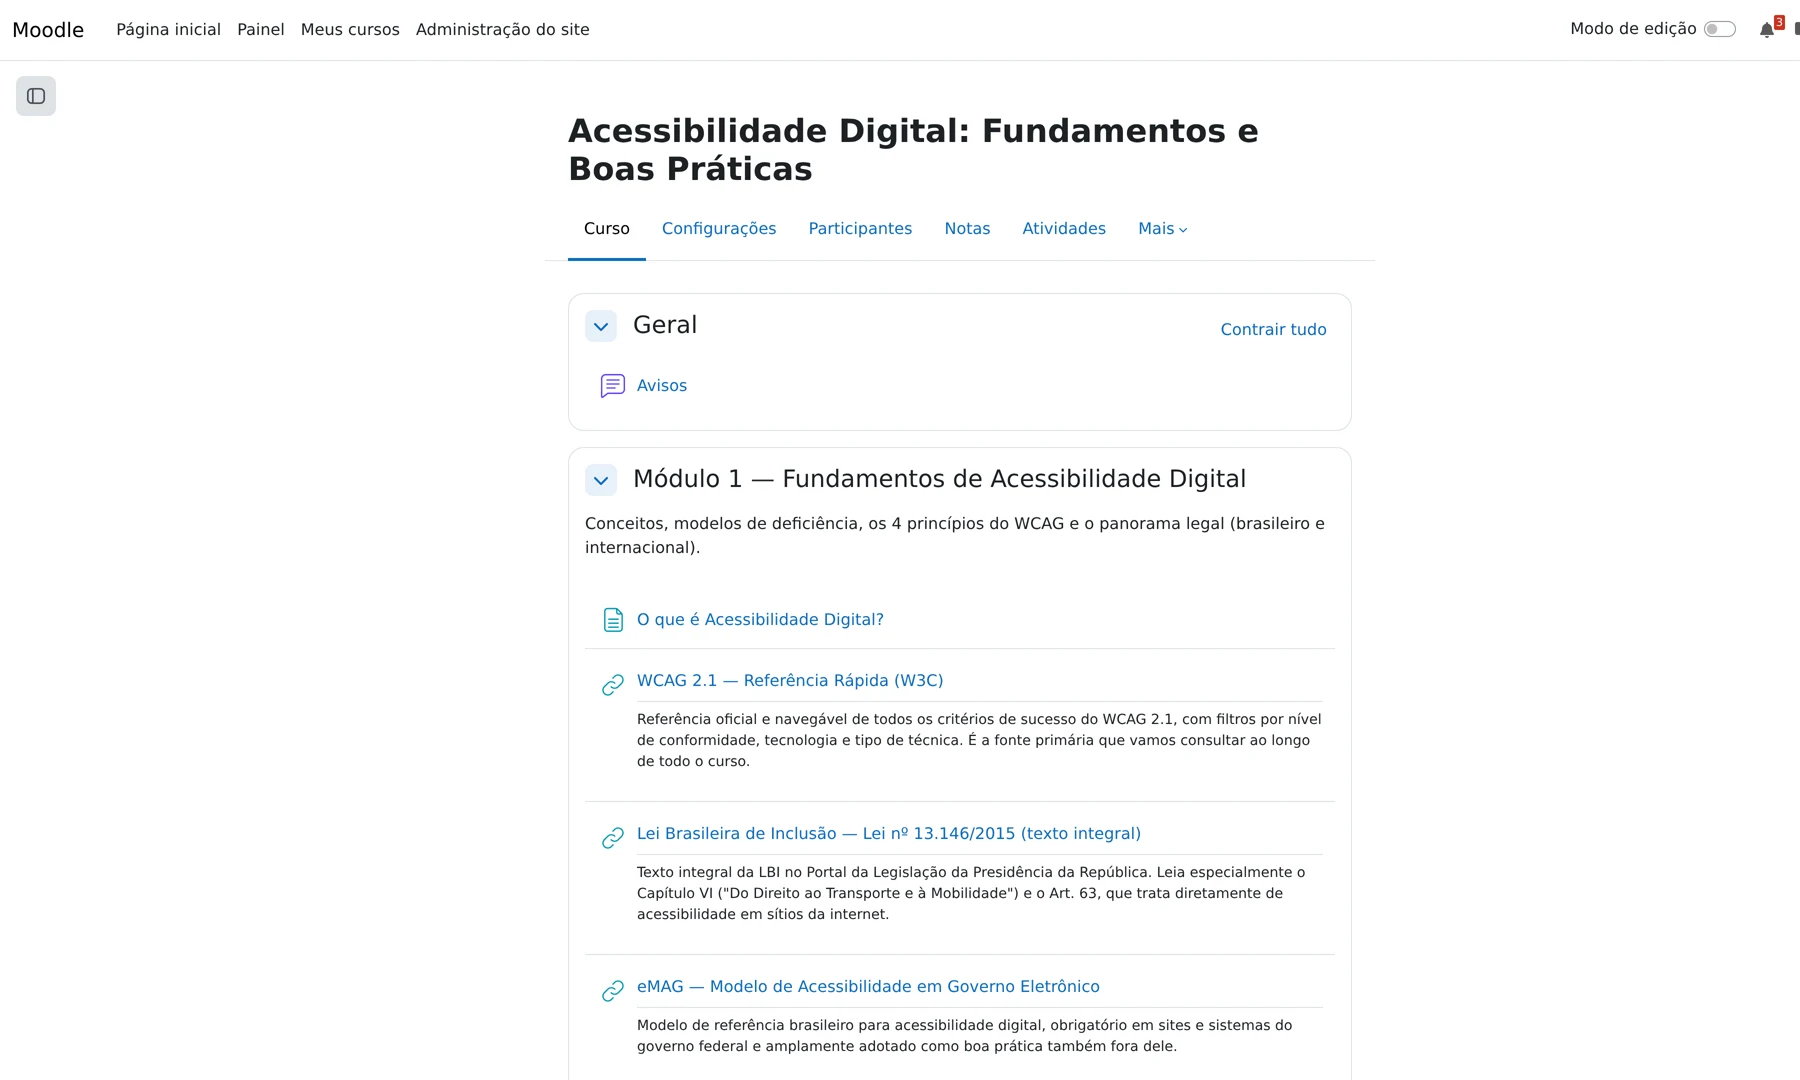
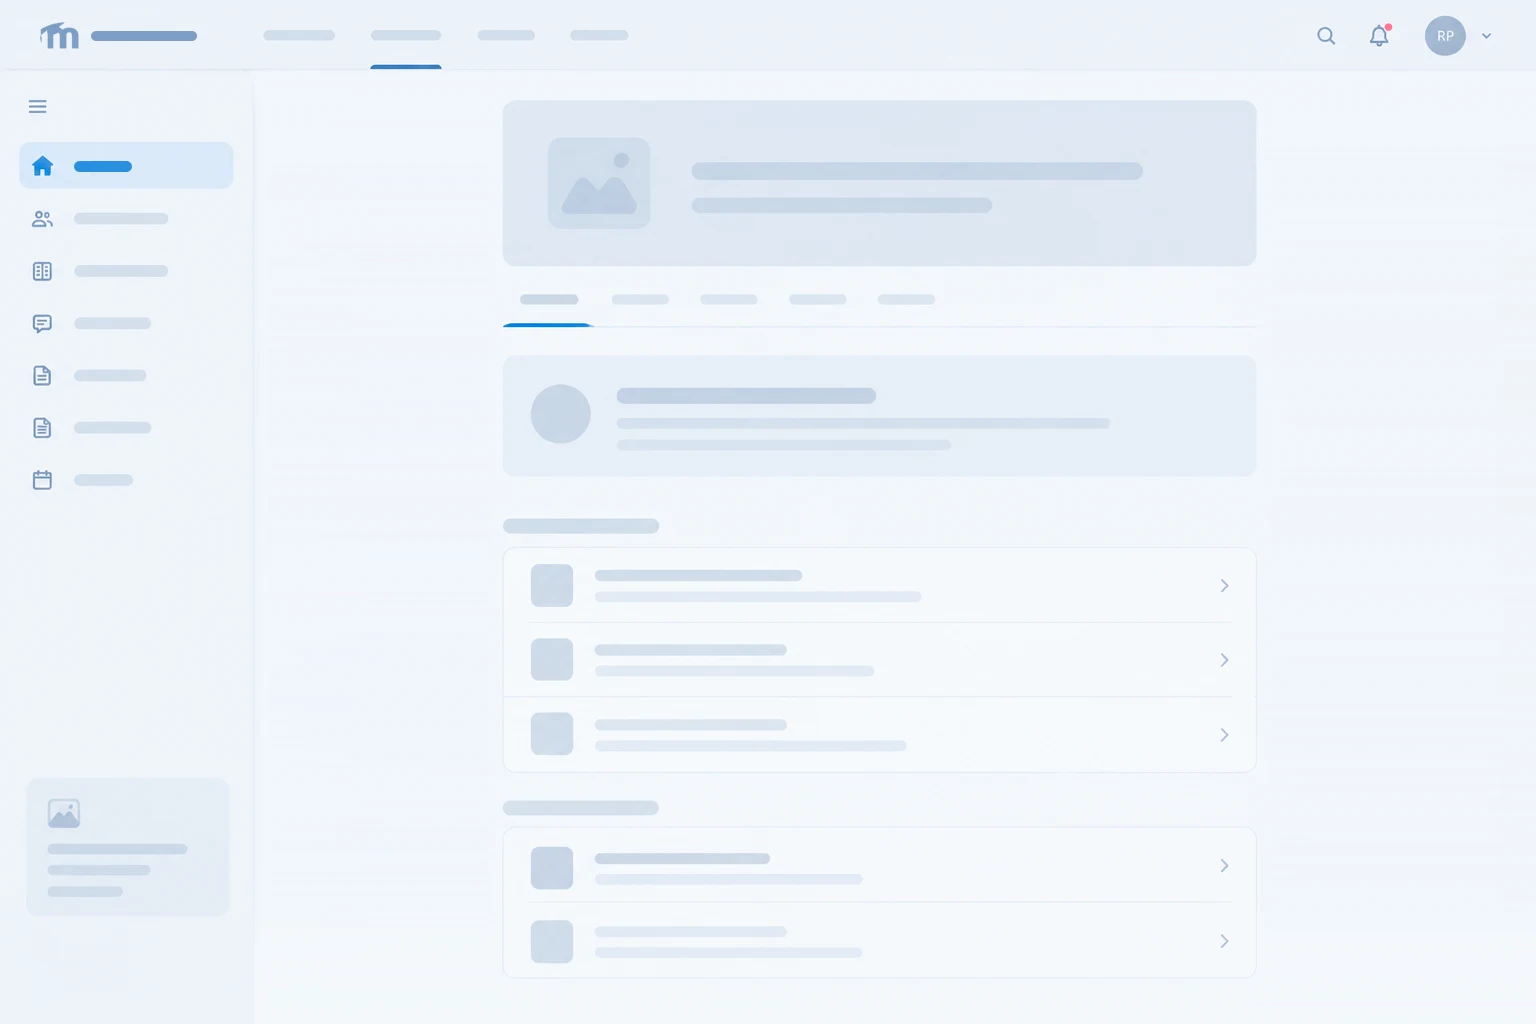
fix(site): troca as imagens da composição do hero pelas fornecidas
hero2-page.webp agora é o wireframe genérico (hero-mdl.png) - avisei o
usuário que essa camada deixa de ser uma captura real do Moodle antes
de aplicar, e ele confirmou que queria assim mesmo. hero2-panel.webp
continua real (hero-plugin.png, mesmo painel real de sempre, só um
recorte/proporção diferente, 422x1033). Atributos width/height
atualizados para as novas dimensões.

diff --git a/index.html b/index.html
@@ -435,10 +435,10 @@
     <div class="hero__visual">
       <div class="browser hero__shot-page">
         <div class="browser__bar" aria-hidden="true"><i></i><i></i><i></i><span class="browser__url">moodle.suainstituicao.edu.br/course/view.php?id=7</span></div>
-        <img src="img/hero2-page.webp" width="1800" height="1080" alt="" aria-hidden="true" loading="eager">
+        <img src="img/hero2-page.webp" width="1536" height="1024" alt="" aria-hidden="true" loading="eager">
       </div>
       <div class="browser hero__shot-panel">
-        <img class="l10n" src="img/hero2-panel.webp" width="640" height="954" alt="Painel de acessibilidade do A11Y for Moodle aberto sobre uma página real de curso no Moodle, mostrando a busca, os 9 perfis em cartões coloridos e o início da categoria Texto e Tipografia." data-i18n-attr="alt:heroalt">
+        <img class="l10n" src="img/hero2-panel.webp" width="422" height="1033" alt="Painel de acessibilidade do A11Y for Moodle aberto sobre uma página real de curso no Moodle, mostrando a busca, os 9 perfis em cartões coloridos e o início da categoria Texto e Tipografia." data-i18n-attr="alt:heroalt">
       </div>
     </div>
   </div>
